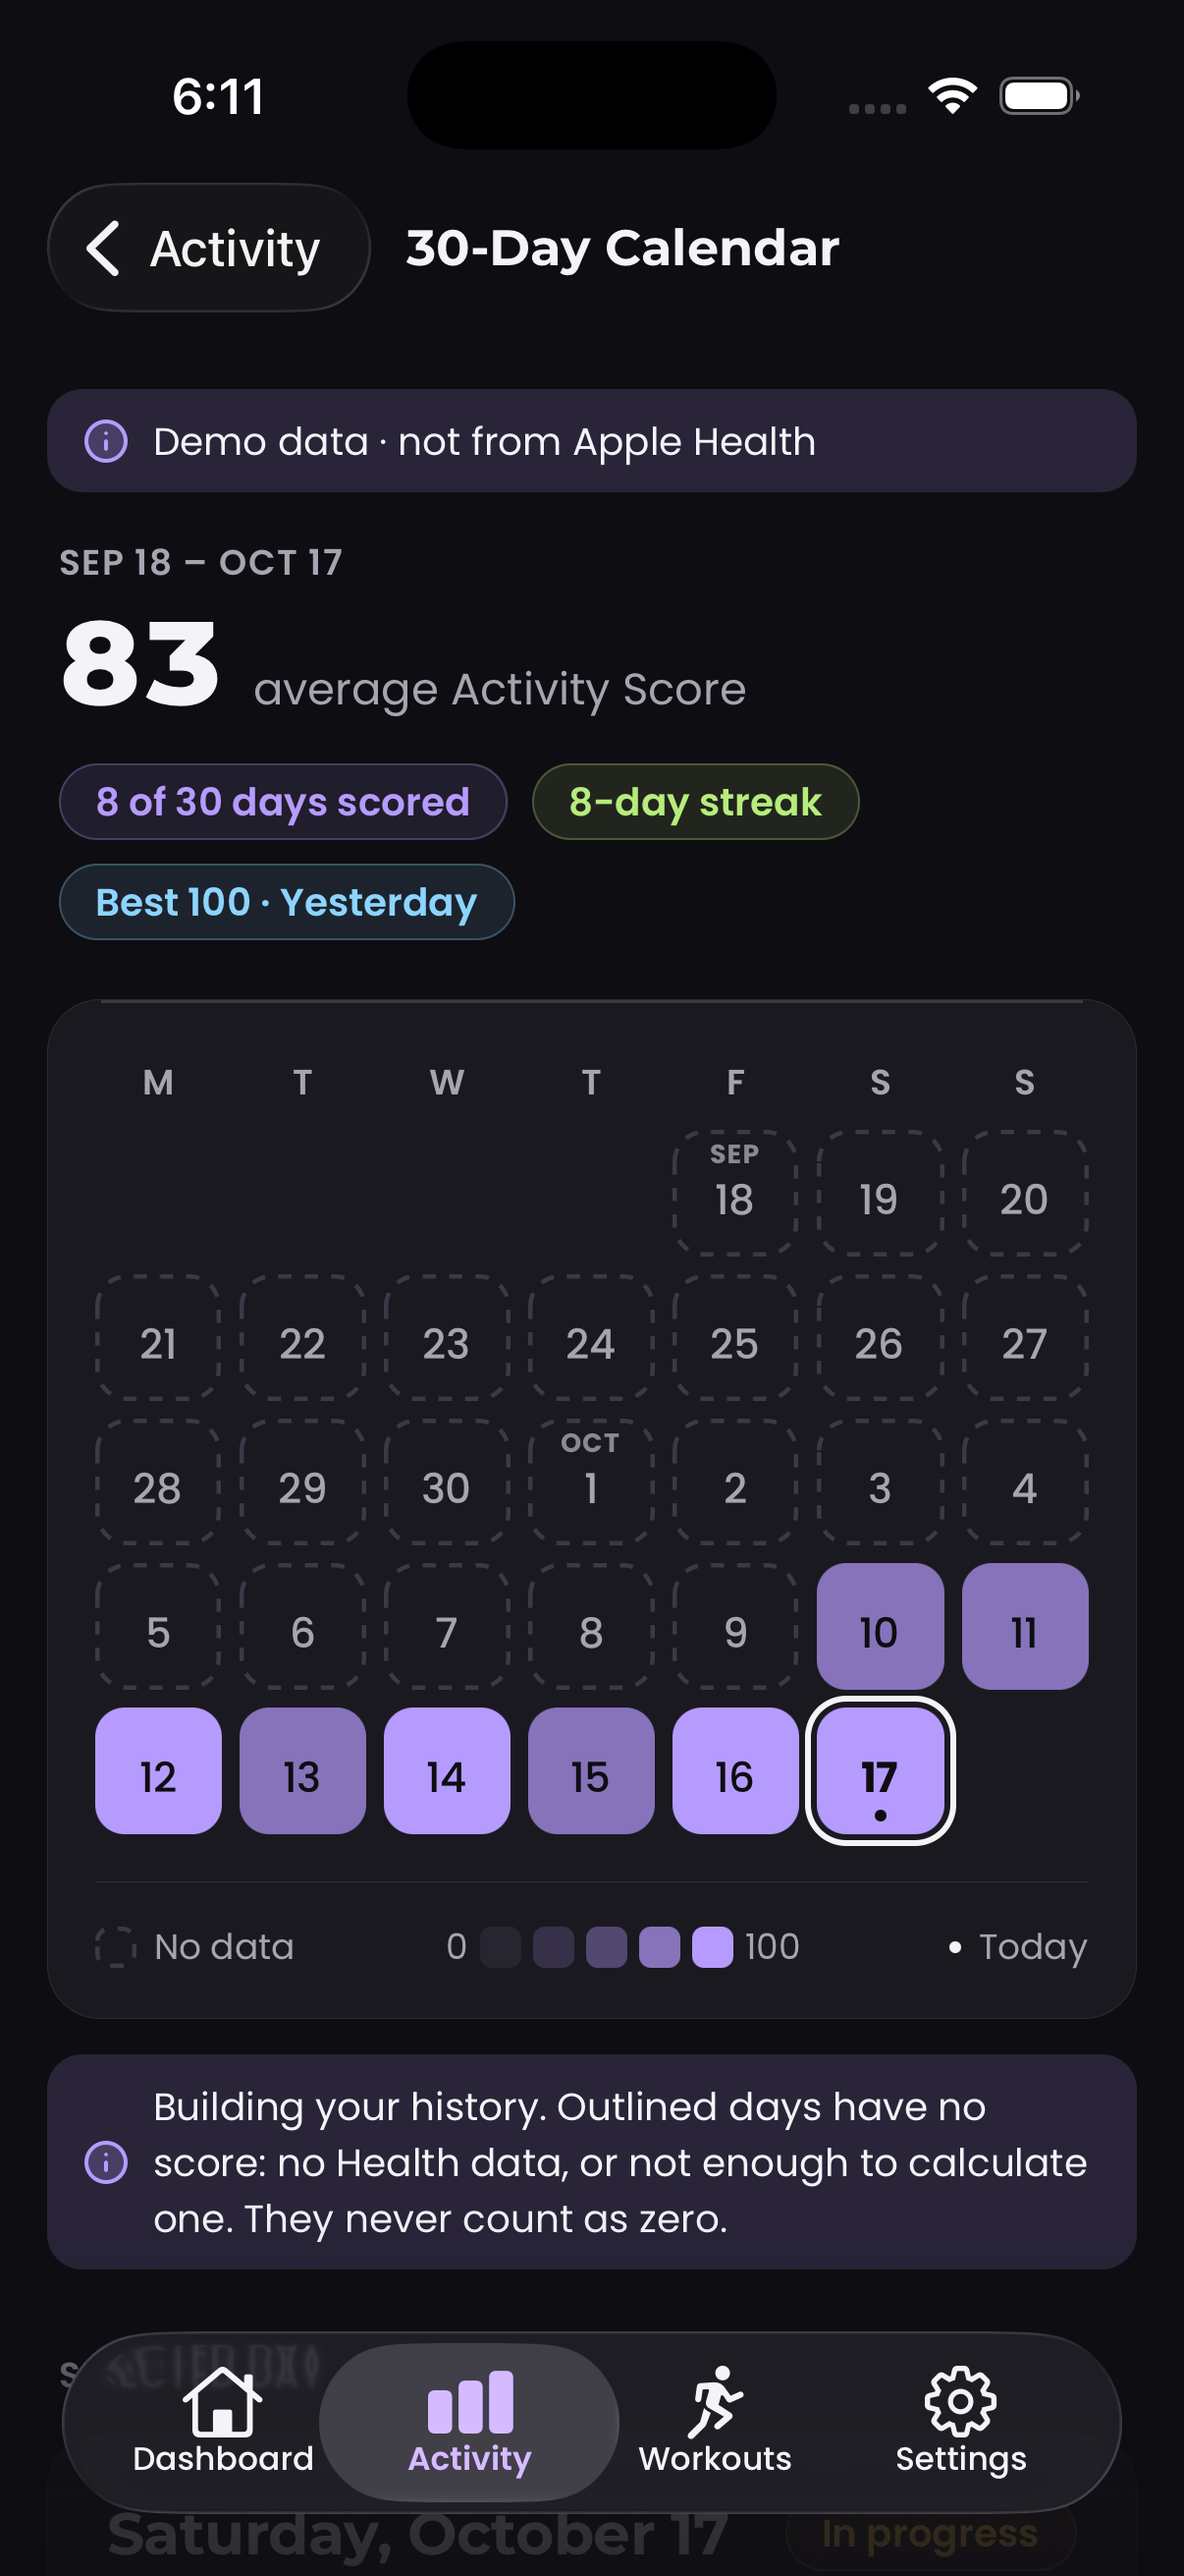
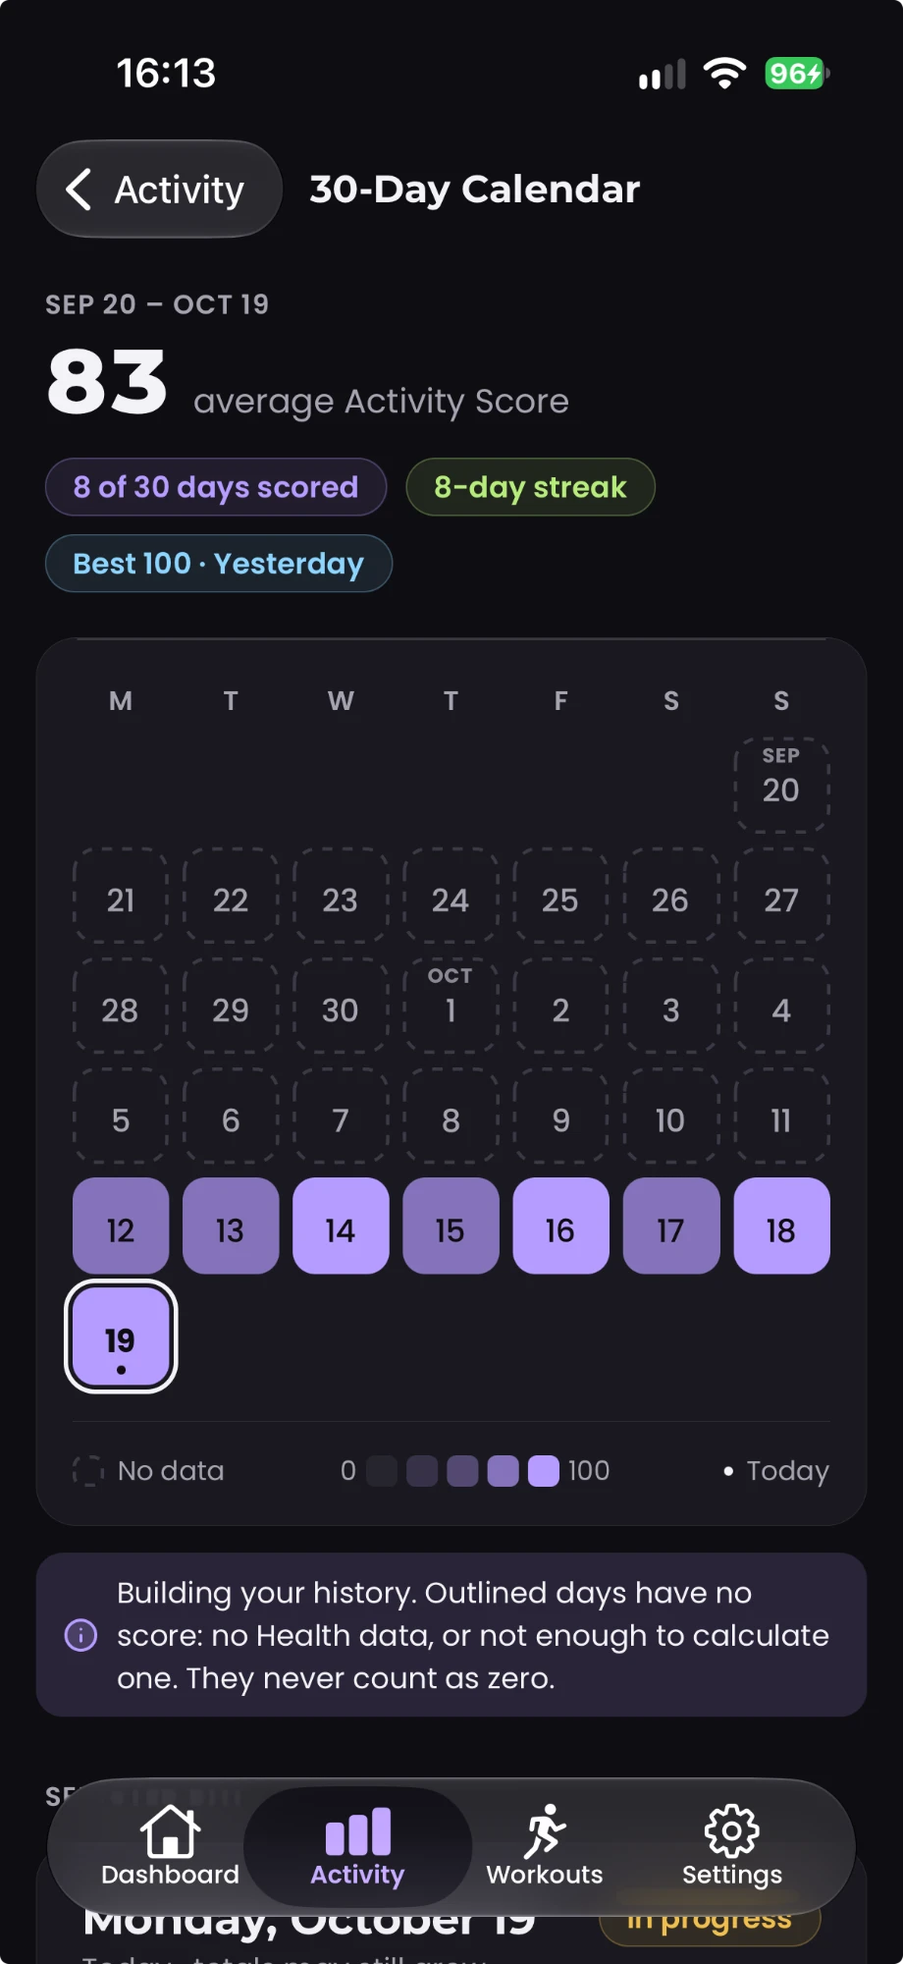
Add 30-day calendar screenshots to the README (#4)
* feat: add 30-day activity calendar

Adds a 30-Day Activity Calendar, opened from the Activity tab, that shows
the stored Activity Score for the latest 30 local days as a heatmap.

- Domain (src/domain/calendar.ts): builds 30 consecutive local dates,
  joins persisted summaries and workouts by local start day, maps scores
  to intensity bands, and summarizes coverage, average and best day from
  valid scores only. Unknown scores are never treated as zero; the score
  formula is unchanged.
- Service: ActivityService.getCalendar() reads local storage only, plus
  WorkoutRepository.listStartedBetween() so busy months aren't capped at
  100 workouts. No sync, HealthKit, permission or schema changes.
- UI: heatmap grid with weekday columns, per-cell date and score text,
  a dashed outline for unknown days, a neutral tile for a valid zero, a
  today marker, a legend and accessible labels; compact stats with a
  coverage note; selected-day details (metrics, score breakdown,
  workouts) using the existing formatting and missing-data conventions.
  The calendar query refreshes whenever the shared snapshot syncs.

Tests: 37 new tests across domain, service and screen suites (dates
across month, year, leap-year and DST boundaries; unknown vs zero;
averages and coverage; empty and partial data; selected-day details;
consistency with stored data; no extra sync). npm run verify: 176/176.

* Redesign the 30-day calendar to match the design mockup
[…]

diff --git a/README.md b/README.md
@@ -20,6 +20,13 @@ touching the UI or data layers.
 | --- | --- | --- | --- |
 | ![Dashboard](docs/screenshots/dashboard.png) | ![Activity](docs/screenshots/activity.png) | ![Workouts](docs/screenshots/workouts.png) | ![Settings](docs/screenshots/settings.png) |
 
+The **30-Day Activity Calendar** opens from the Activity tab. Days without a score are
+outlined, never shown as zero; tap a day to see its score breakdown, metrics and workouts.
+
+| 30-Day Calendar | Selected day |
+| --- | --- |
+| <img src="docs/screenshots/calendar-dark.png" alt="30-Day Activity Calendar" width="220"> | <img src="docs/screenshots/calendar-day-dark.png" alt="Selected day in the 30-Day Activity Calendar" width="220"> |
+
 ## Features
 
 - **Onboarding** – welcome, privacy explanation, list of data types read, HealthKit
@@ -29,9 +36,9 @@ touching the UI or data layers.
 - **Activity** – 7-day steps chart with average line, Activity Score trend, daily
   breakdown and all current insights. Missing days are drawn as dashed gaps.
 - **30-Day Activity Calendar** (Activity → 30-Day Activity Calendar) – a heatmap of the
-  Activity Score for the last 30 local days, with coverage, average and best-day stats that
-  use scored days only, and per-day metrics, score breakdown and workouts. Days without a
-  score are shown as "no score", never as zero.
+  Activity Score for the last 30 local days, with coverage, average, streak and best-day
+  stats that use scored days only, and per-day metrics, score breakdown and workouts. Days
+  without a score are drawn as outlines, never as zero.
 - **Workouts** – workouts from the last 30 days: type, start time, duration, calories
   where recorded. EdgeFit reads workouts; it does not record them.
 - **Privacy Center** – what is read, where it is stored, that no cloud processing is
